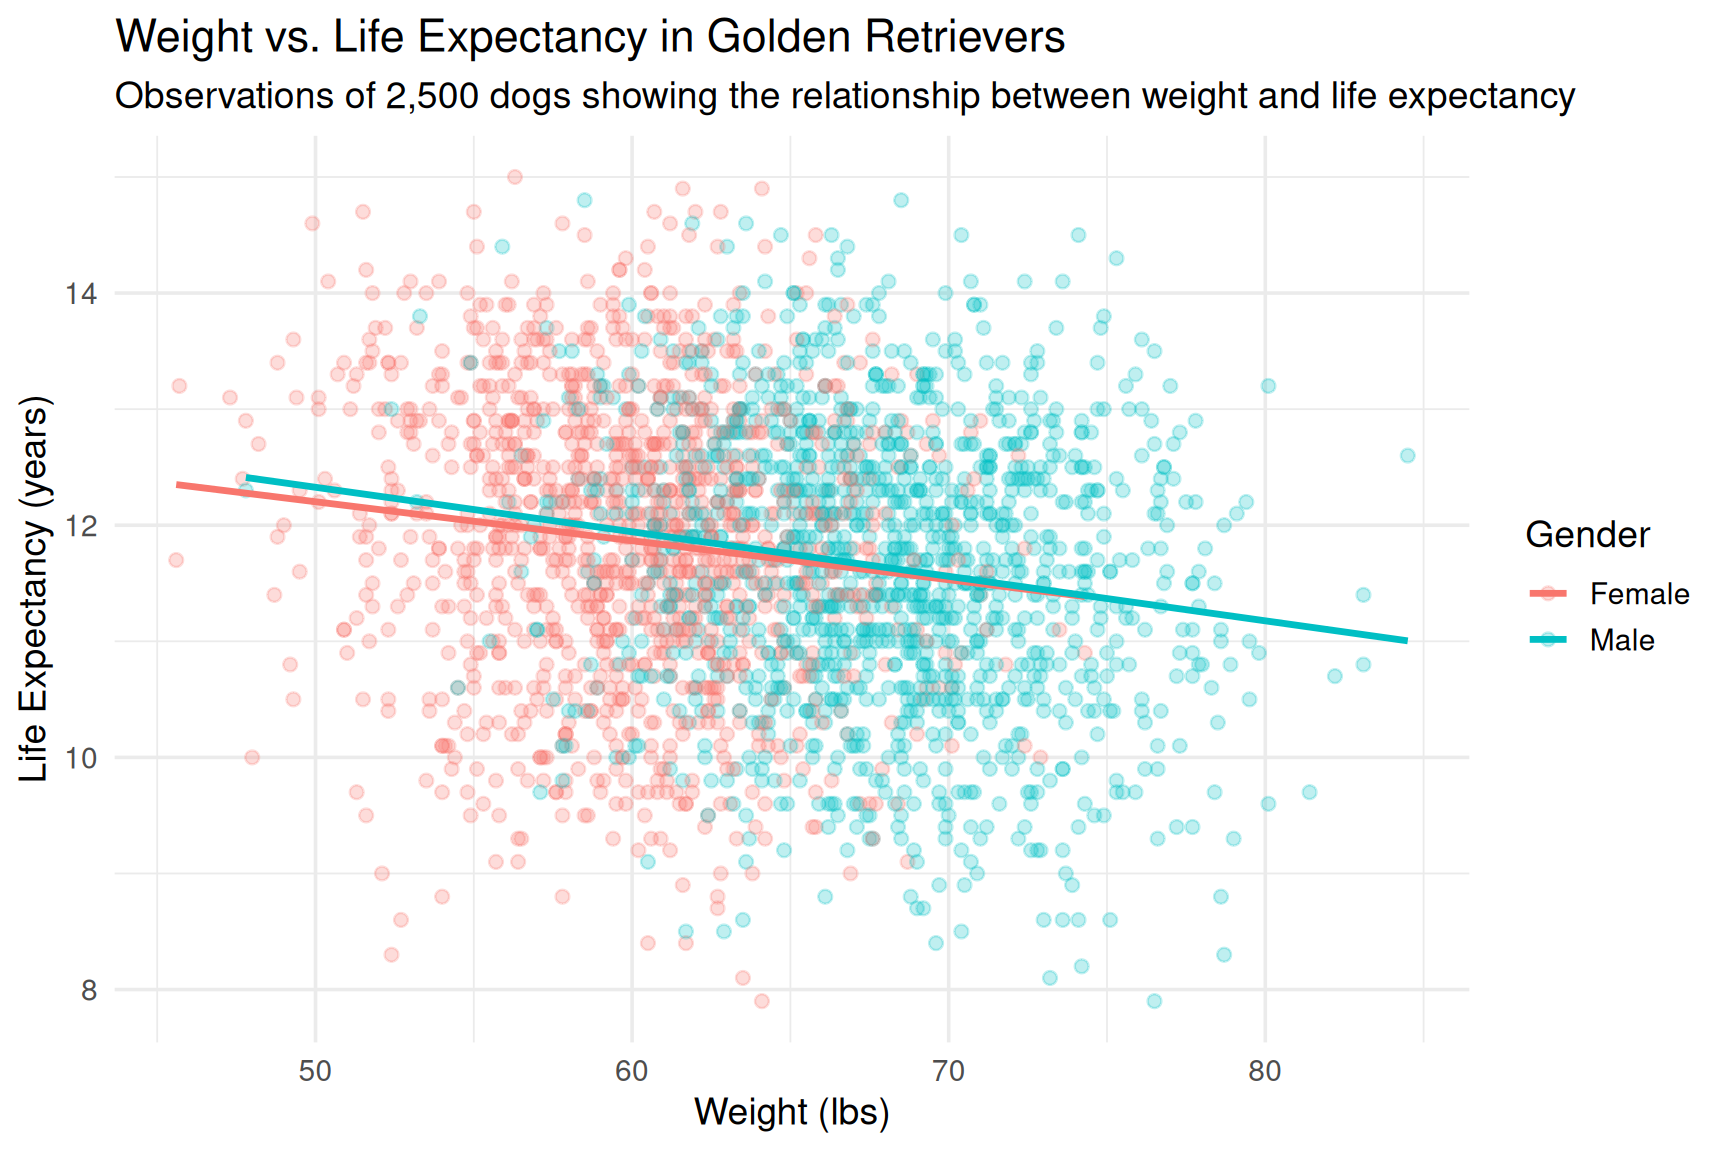
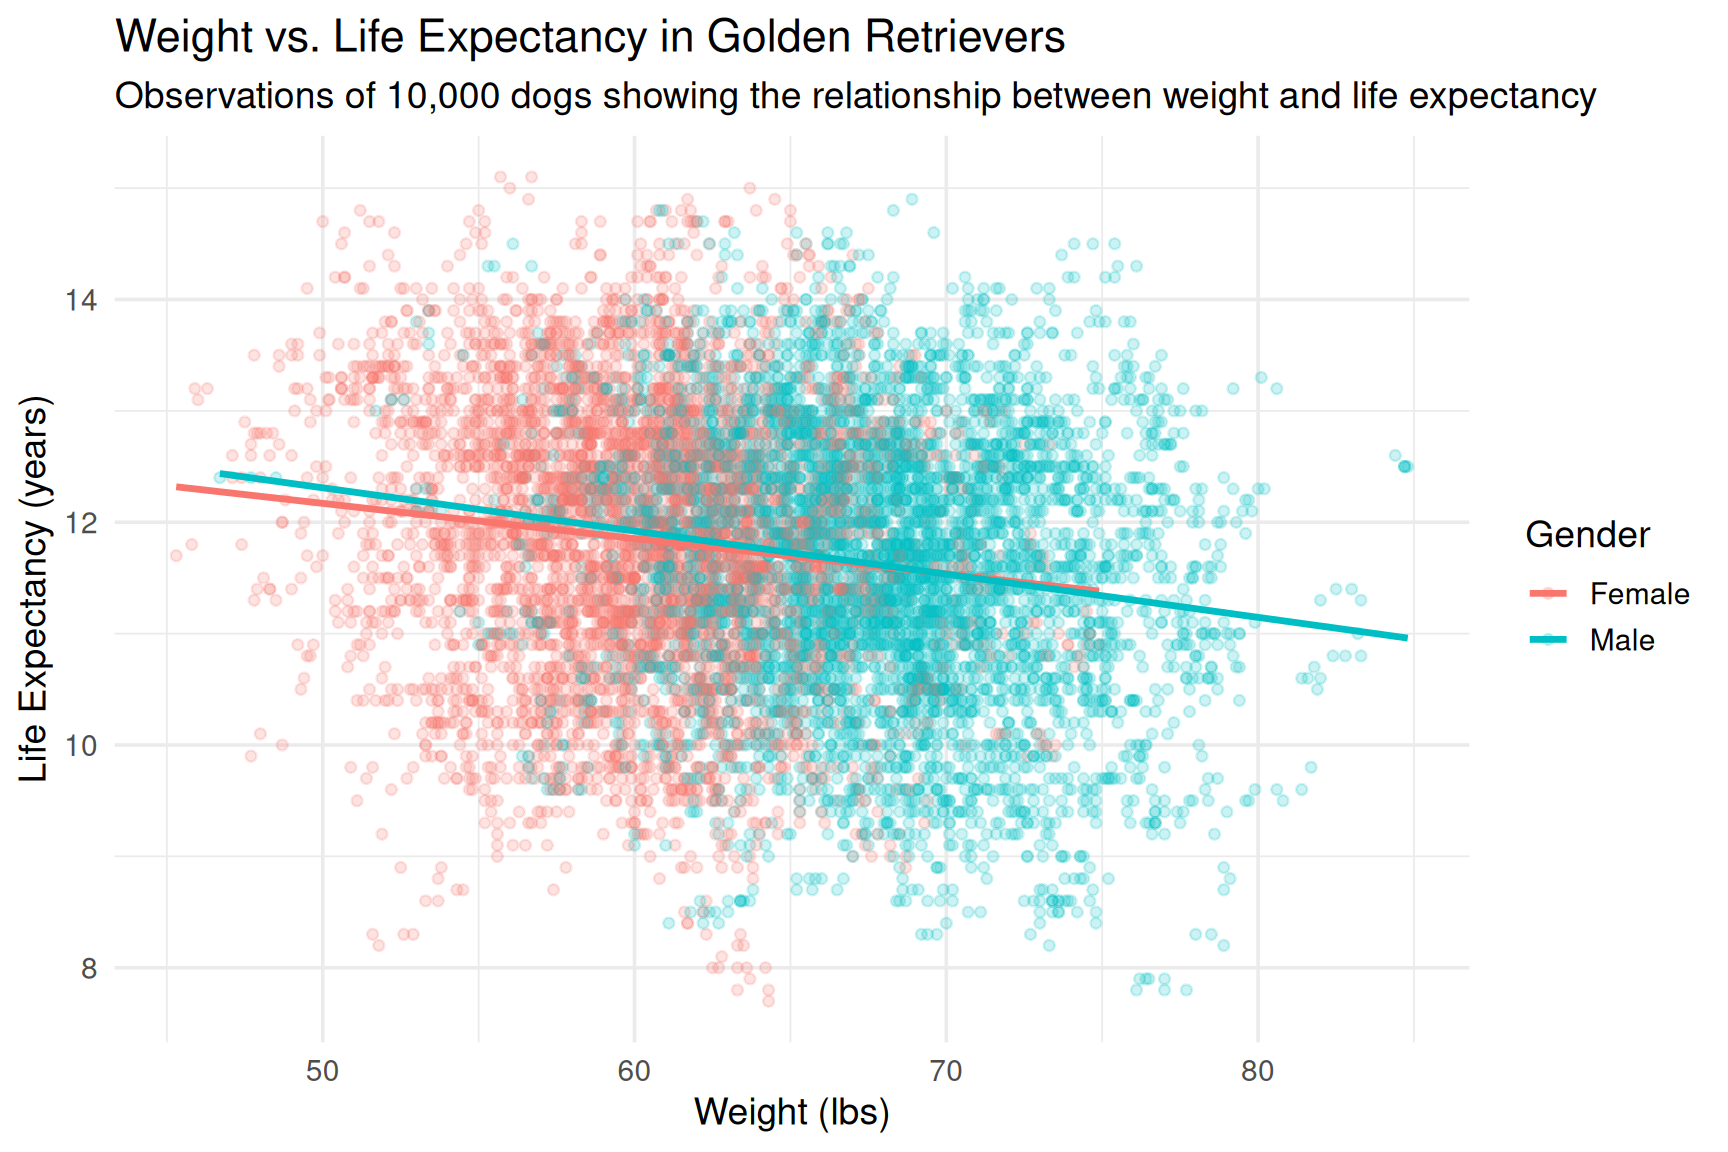
Built site for gh-pages

diff --git a/index.html b/index.html
@@ -114,8 +114,14 @@ ul.task-list li input[type="checkbox"] {
 <div id="quarto-content" class="quarto-container page-columns page-rows-contents page-layout-article page-navbar">
 <!-- sidebar -->
 <!-- margin-sidebar -->
-    <div id="quarto-margin-sidebar" class="sidebar margin-sidebar zindex-bottom">
-        
+    <div id="quarto-margin-sidebar" class="sidebar margin-sidebar">
+        <nav id="TOC" role="doc-toc" class="toc-active">
+    <h2 id="toc-title">On this page</h2>
+   
+  <ul>
+  <li><a href="#cool-facts-about-golden-retrievers" id="toc-cool-facts-about-golden-retrievers" class="nav-link active" data-scroll-target="#cool-facts-about-golden-retrievers">Cool Facts About Golden Retrievers</a></li>
+  </ul>
+</nav>
     </div>
 <!-- main -->
 <main class="content" id="quarto-document-content">
@@ -123,7 +129,7 @@ ul.task-list li input[type="checkbox"] {
 <header id="title-block-header" class="quarto-title-block default">
 <div class="quarto-title">
 <h1 class="title">Golden Retriever Life Expectancy and Weight</h1>
-<p class="subtitle lead">2,500 observations examining canine longevity and health</p>
+<p class="subtitle lead">10,000 observations examining canine longevity and health</p>
 </div>
 
 
@@ -149,9 +155,18 @@ ul.task-list li input[type="checkbox"] {
 </div>
 </div>
 </div>
-<p>This graphic displays 2,500 observations of Golden Retrievers, illustrating how body weight and gender relate to overall life expectancy.</p>
+<p>This graphic displays 10,000 observations of Golden Retrievers, illustrating how body weight and gender relate to overall life expectancy.</p>
+<section id="cool-facts-about-golden-retrievers" class="level3">
+<h3 class="anchored" data-anchor-id="cool-facts-about-golden-retrievers">Cool Facts About Golden Retrievers</h3>
+<ul>
+<li><strong>Soft Mouth:</strong> Goldens have an exceptionally gentle grip, famously capable of carrying a raw egg in their mouths without cracking it.</li>
+<li><strong>Water-Repellent Coats:</strong> They have a dense double coat designed to repel water and keep them warm when retrieving waterfowl in cold lakes and rivers.</li>
+<li><strong>Top-Tier Smarts:</strong> Ranked the 4th smartest dog breed, they excel in search-and-rescue, service work, and therapy.</li>
+<li><strong>Longevity and Weight:</strong> While the average life expectancy for a Golden Retriever is around 10 to 12 years, veterinary studies show that keeping them at a lean, healthy weight can add nearly two years to their lifespan!</li>
+</ul>
 
 
+</section>
 
 </main> <!-- /main -->
 <script id="quarto-html-after-body" type="application/javascript">

diff --git a/about.html b/about.html
@@ -145,7 +145,7 @@ ul.task-list li input[type="checkbox"] {
 <figcaption>A Golden Retriever</figcaption>
 </figure>
 </div>
-<p>This project investigates the relationship between activity levels, weight, and life expectancy in Golden Retrievers using a dataset of 2,500 observations.</p>
+<p>This project investigates the relationship between activity levels, weight, and life expectancy in Golden Retrievers using a dataset of 10,000 observations.</p>
 <p>This work was completed as part of Milestone 4 for Bayesian Data Science.</p>
 
 
